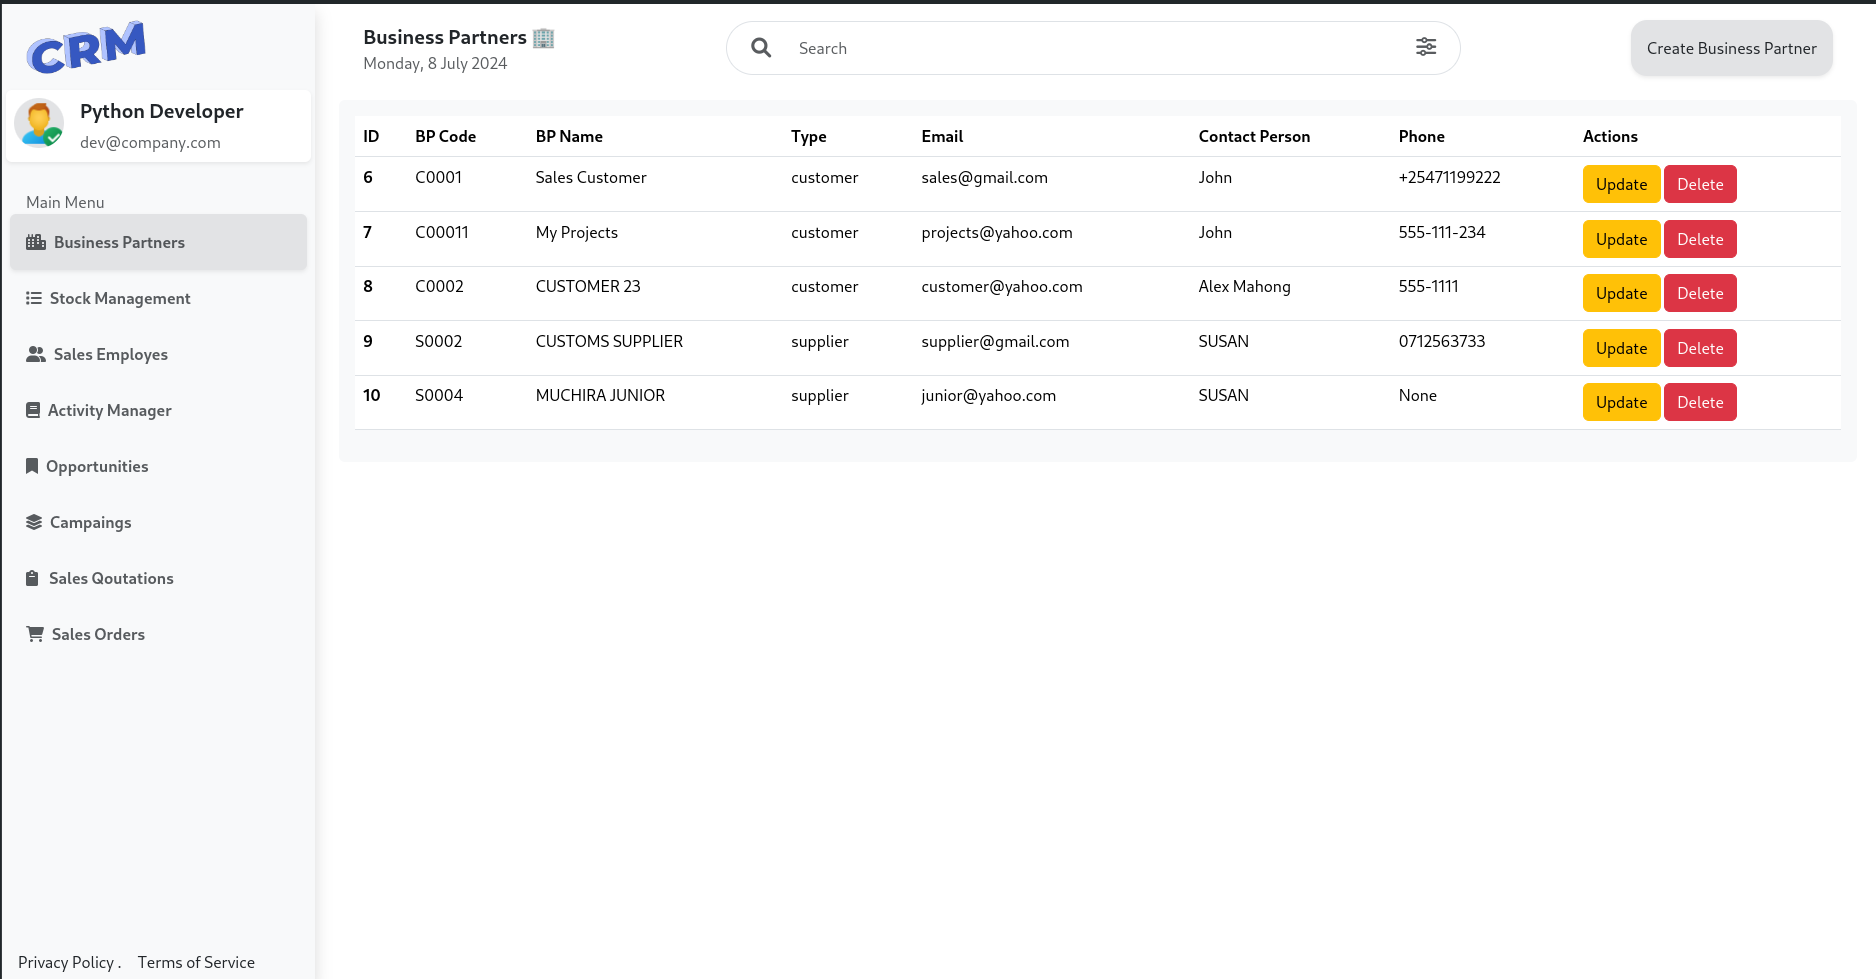
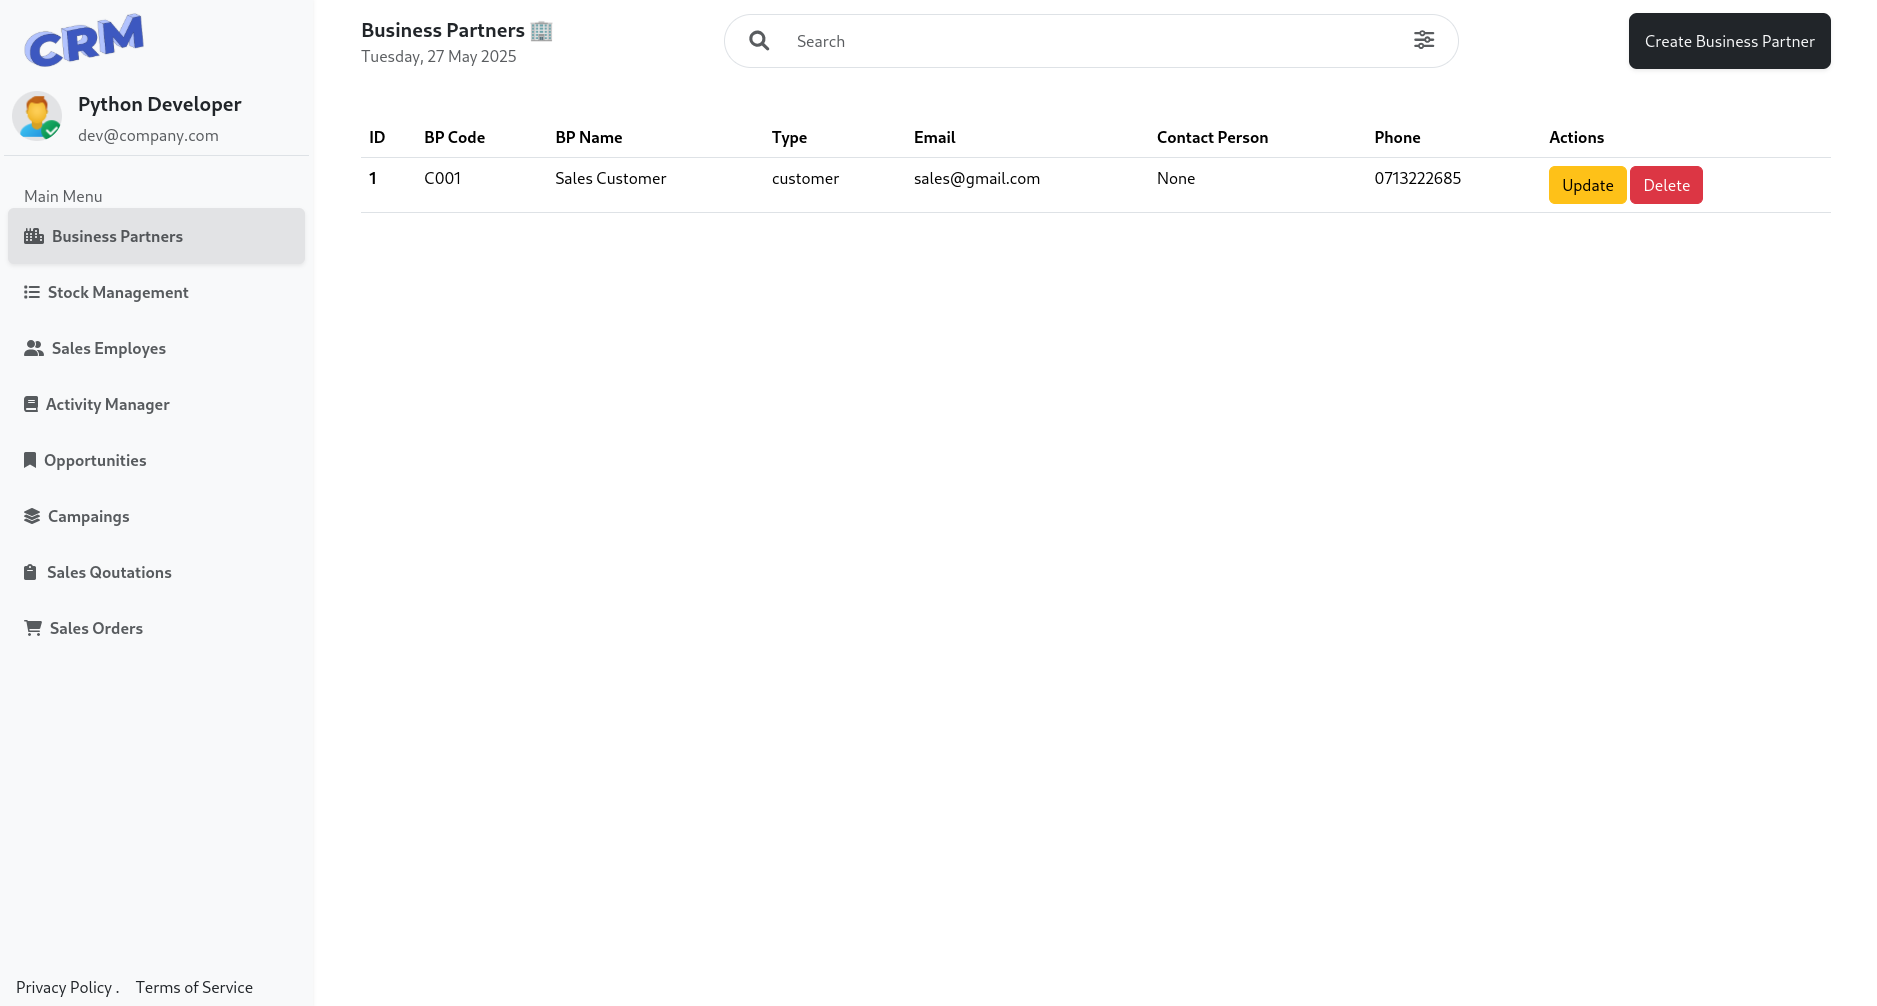
Refactor code structure for improved readability and maintainability

diff --git a/opportunities/templates/list_opportunities.html b/opportunities/templates/list_opportunities.html
@@ -7,8 +7,8 @@ CRM - Opportunities
 
 
 {% block action %}
-<button type="button" class="nav-link" data-bs-toggle="modal" data-bs-target="#createOpportunitiesModal">
-    Create Opportunities
+<button type="button" class="btn btn-dark" data-bs-toggle="modal" data-bs-target="#createOpportunitiesModal">
+    Create Opportunity
   </button>
 
   <div class="modal fade" id="createOpportunitiesModal" data-bs-backdrop="static" tabindex="-1" aria-labelledby="createOpportunitiesModalLabel" aria-hidden="true">
@@ -85,7 +85,7 @@ CRM - Opportunities
 {% endfor %}
 {% endif %}
 
-<div class=" bg-light rounded-2 p-2  m-5">
+<div class="m-5">
     <div class="table-responsive">
         <h2>Opportunities</h2>
         <table class="table table-striped">

diff --git a/sales/templates/view_sales_document.html b/sales/templates/view_sales_document.html
@@ -6,7 +6,7 @@ CRM - Sales Document {{ document.id }}
 {%block page_name%} Sales Document (No: {{ document.id }}) 📂 {% endblock %}
 
 
-{% block action %}<button type="button" class="nav-link" data-bs-toggle="modal" data-bs-target="#addItemModal">
+{% block action %}<button type="button" class="btn btn-dark" data-bs-toggle="modal" data-bs-target="#addItemModal">
     Add Item
   </button>
   
@@ -53,7 +53,7 @@ CRM - Sales Document {{ document.id }}
 {% endfor %}
 {% endif %}
 
-<div class="container mt-5">
+<div class="mt-5">
     <h2>Sales Document: {{ document.customer_name }}</h2>
     <div class="mb-3 border rounded-2 p-2">
         <strong class="me-3">Customer Name:</strong> {{ document.customer_name }}<br>

diff --git a/sales/templates/sales_documents.html b/sales/templates/sales_documents.html
@@ -6,7 +6,7 @@ CRM - Sales Documents
 {%block page_name%} Sales Documents 📂 {% endblock %}
 
 
-{% block action %}<button type="button" class="nav-link" data-bs-toggle="modal" data-bs-target="#createItemModal">
+{% block action %}<button type="button" class="btn btn-dark" data-bs-toggle="modal" data-bs-target="#createItemModal">
     Create Sales Document
   </button>
   
@@ -68,8 +68,7 @@ CRM - Sales Documents
 {% endfor %}
 {% endif %}
 
-<div class="container mt-5">
-    
+<div class="p-2 m-5">   
     
     <div class="table-responsive mt-3">
         <table class="table table-striped">

diff --git a/salesreps/templates/sales_employees.html b/salesreps/templates/sales_employees.html
@@ -8,7 +8,7 @@ CRM - Sales Employes
 
 {% block action %}
 <!-- Button trigger modal -->
-<button type="button" class="nav-link" data-bs-toggle="modal" data-bs-target="#createItemModal">
+<button type="button" class="btn btn-dark" data-bs-toggle="modal" data-bs-target="#createItemModal">
     Create Sales Rep
   </button>
   
@@ -60,7 +60,7 @@ CRM - Sales Employes
 {% endfor %}
 {% endif %}
 
-<div class=" bg-light rounded-2 p-2  m-5">
+<div class="rounded-2 p-2  m-5">
     <div class="table-responsive mt-3">
         <table class="table table-striped">
             <thead>

diff --git a/business_partners/templates/business_partners.html b/business_partners/templates/business_partners.html
@@ -8,7 +8,7 @@ CRM - Business Partners
 
 {%block action%}
 <!-- Button trigger modal -->
-<button type="button" class="nav-link" data-bs-toggle="modal" data-bs-target="#createBPModal">
+<button type="button" class="btn btn-dark" data-bs-toggle="modal" data-bs-target="#createBPModal">
     Create Business Partner
   </button>
   
@@ -45,7 +45,7 @@ CRM - Business Partners
 {% endif %}
 
 
-<div class="p-3 m-4 bg-light rounded-2">
+<div class="m-5 rounded-2">
     <table class="table table-hover">
         <thead >
           <tr class="bg-dark">

diff --git a/campaigns/templates/list_campaigns.html b/campaigns/templates/list_campaigns.html
@@ -7,7 +7,7 @@ CRM - Campaigns
 
 
 {% block action %}
-<button type="button" class="nav-link" data-bs-toggle="modal" data-bs-target="#createCampaignsModal">
+<button type="button" class="btn btn-dark" data-bs-toggle="modal" data-bs-target="#createCampaignsModal">
     Create Campaigns
   </button>
 
@@ -66,7 +66,7 @@ CRM - Campaigns
 {% endfor %}
 {% endif %}
 
-<div class=" bg-light rounded-2 p-2  m-5">
+<div class="m-5">
     <div class="table-responsive">
         <h2>Campaigns</h2>
         <table class="table table-striped">

diff --git a/stocks/templates/items.html b/stocks/templates/items.html
@@ -7,7 +7,7 @@ CRM - Stock Management
 
 
 {% block action %}
-<button type="button" class="nav-link" data-bs-toggle="modal" data-bs-target="#createItemModal">
+<button type="button" class="btn btn-dark" data-bs-toggle="modal" data-bs-target="#createItemModal">
     Create Item
   </button>
 
@@ -59,7 +59,7 @@ CRM - Stock Management
 {% endfor %}
 {% endif %}
 
-<div class=" bg-light rounded-2 p-2  m-5">
+<div class=" m-5">
     <div class="table-responsive">
         <table class="table table-hover">
             <thead>

diff --git a/activities/templates/list_activities.html b/activities/templates/list_activities.html
@@ -7,7 +7,7 @@ CRM - Activities
 
 
 {% block action %}
-<button type="button" class="nav-link" data-bs-toggle="modal" data-bs-target="#createActivity">
+<button type="button" class="btn btn-dark" data-bs-toggle="modal" data-bs-target="#createActivity">
     Create Activity
   </button>
   
@@ -98,7 +98,7 @@ CRM - Activities
 {% endfor %}
 {% endif %}
 
-<div class="container mt-5">
+<div class="m-5">
     <h2>Activities</h2>
     <div class="table-responsive">
         <table class="table table-striped">

diff --git a/home/templates/base.html b/home/templates/base.html
@@ -54,7 +54,7 @@
          
         </span>
 
-        <span class="shadow-sm  rounded-3 p-3 bg-dark border-secondary-subtle text-light ">
+        <span class="shadow-sm">
           {% block action %}
           {% endblock %}
         </span>
